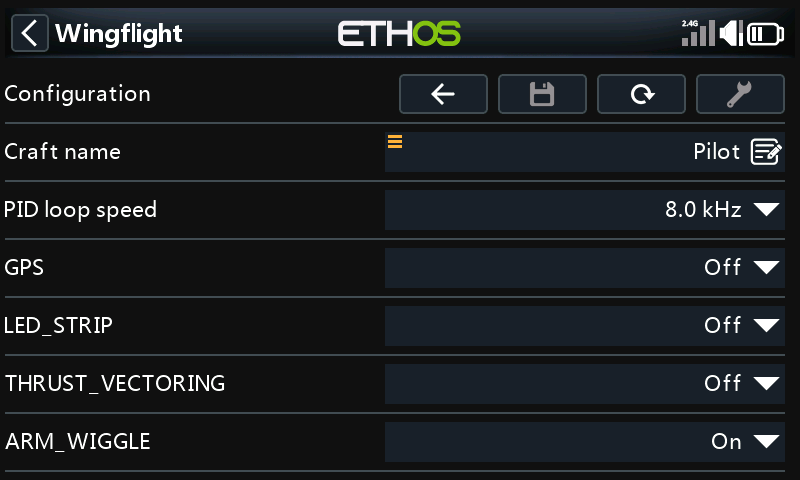
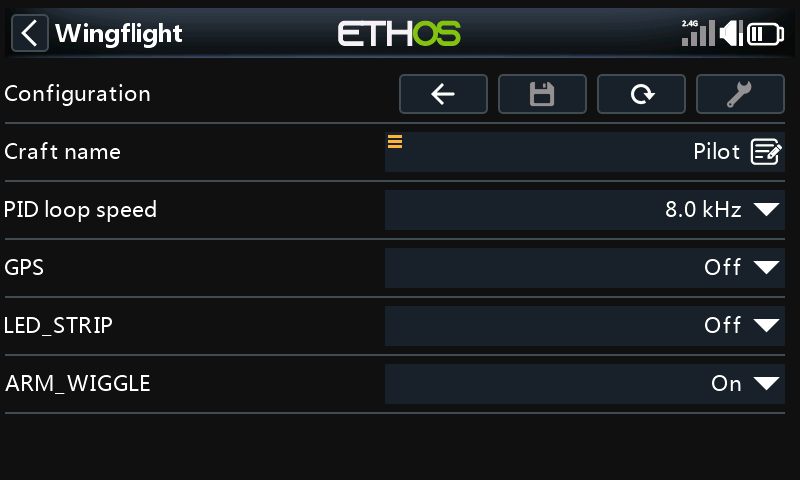
Document Thrust Vector as always available, hold gain 45 (#79)
* Document Thrust Vector as always available, hold gain 45

The firmware no longer has a THRUST_VECTOR feature. The Thrust Vector
tab is always there; the loop reaches the aircraft through Stabilized TV
mixer rules while the THRUST VECTOR mode is active. TV hold gain default
25 -> 45.

* Retake the Ethos Configuration screenshot without Thrust Vectoring

Taken in the Ethos simulator (X20 Pro) from the suite's
feature/tv-always-on branch.

---------

diff --git a/docs/configurator/tabs/thrust-vector.md b/docs/configurator/tabs/thrust-vector.md
@@ -1,12 +1,16 @@
 # Thrust Vector
 
 The Thrust Vector tab configures the independent PID loop that drives a
-vectored-thrust nozzle (`FEATURE_THRUST_VECTOR`). It targets the same
+vectored-thrust nozzle. It targets the same
 roll/pitch/yaw setpoint as the main flight loop, but with its own gains,
 filters, and I-term state -- so it can be tuned, adjusted, or disabled
 without touching the main [Profiles](profiles.md) tune at all.
 
-This tab only appears once **THRUST VECTOR** is enabled as a feature.
+The tab is always there. The loop only reaches the aircraft once a
+**Stabilized TV Roll/Pitch/Yaw** rule on the [Mixer](mixer.md) tab drives an
+output, and only while the **THRUST VECTOR** mode is active on the
+[Modes](auxiliary.md) tab. With the mode off, the loop is reset and the TV
+inputs stay at zero.
 
 ## PID Gains and Flight Feel
 
@@ -35,7 +39,7 @@ The thrust-vector defaults are tuned for a nozzle, not copied from the main loop
 | F | 30 | In a hang there is no airflow to damp the nozzle, so rate feedforward over-drives it. P carries the response. |
 | Error limit | 25 | Caps how far I can move the nozzle. |
 | I-term decay | 0.30 s, no limit | The nozzle returns to centre quickly after a stick move. |
-| Hold gain | 25 | Keeps TV Hold slower than the rate loop. |
+| Hold gain | 45 | In a hang the nozzle can't stop torque roll, so the pointing error turns round the airframe and I can't build against it. The hold's own gain has to carry the correction. |
 
 A thrust-vector axis that no **Stabilized TV** mixer rule uses outputs zero and builds no I.
 

diff --git a/docs/flight-modes/tv-hold.md b/docs/flight-modes/tv-hold.md
@@ -44,7 +44,7 @@ ended up on yaw.
 
 ## Tuning
 
-**Gain** (default 25) sets how aggressively TV Hold corrects the
+**Gain** (default 45) sets how aggressively TV Hold corrects the
 thrust-vector output back to the frozen attitude. **Max Rate** caps how fast it's allowed to
 rotate the held target while doing so. Both are configured on the
 [Thrust Vector](../configurator/tabs/thrust-vector.md) tab, under

diff --git a/docs/ethos-suite/setup.md b/docs/ethos-suite/setup.md
@@ -13,7 +13,7 @@ the Configurator page that explains the settings.
 ### Configuration
 
 The craft name, PID loop speed, and the features the board runs: GPS, LED
-strip, thrust vectoring and the ready-to-arm wiggle.
+strip and the ready-to-arm wiggle.
 
 ![Configuration page](../assets/images/ethos-suite/configuration.png)
 
